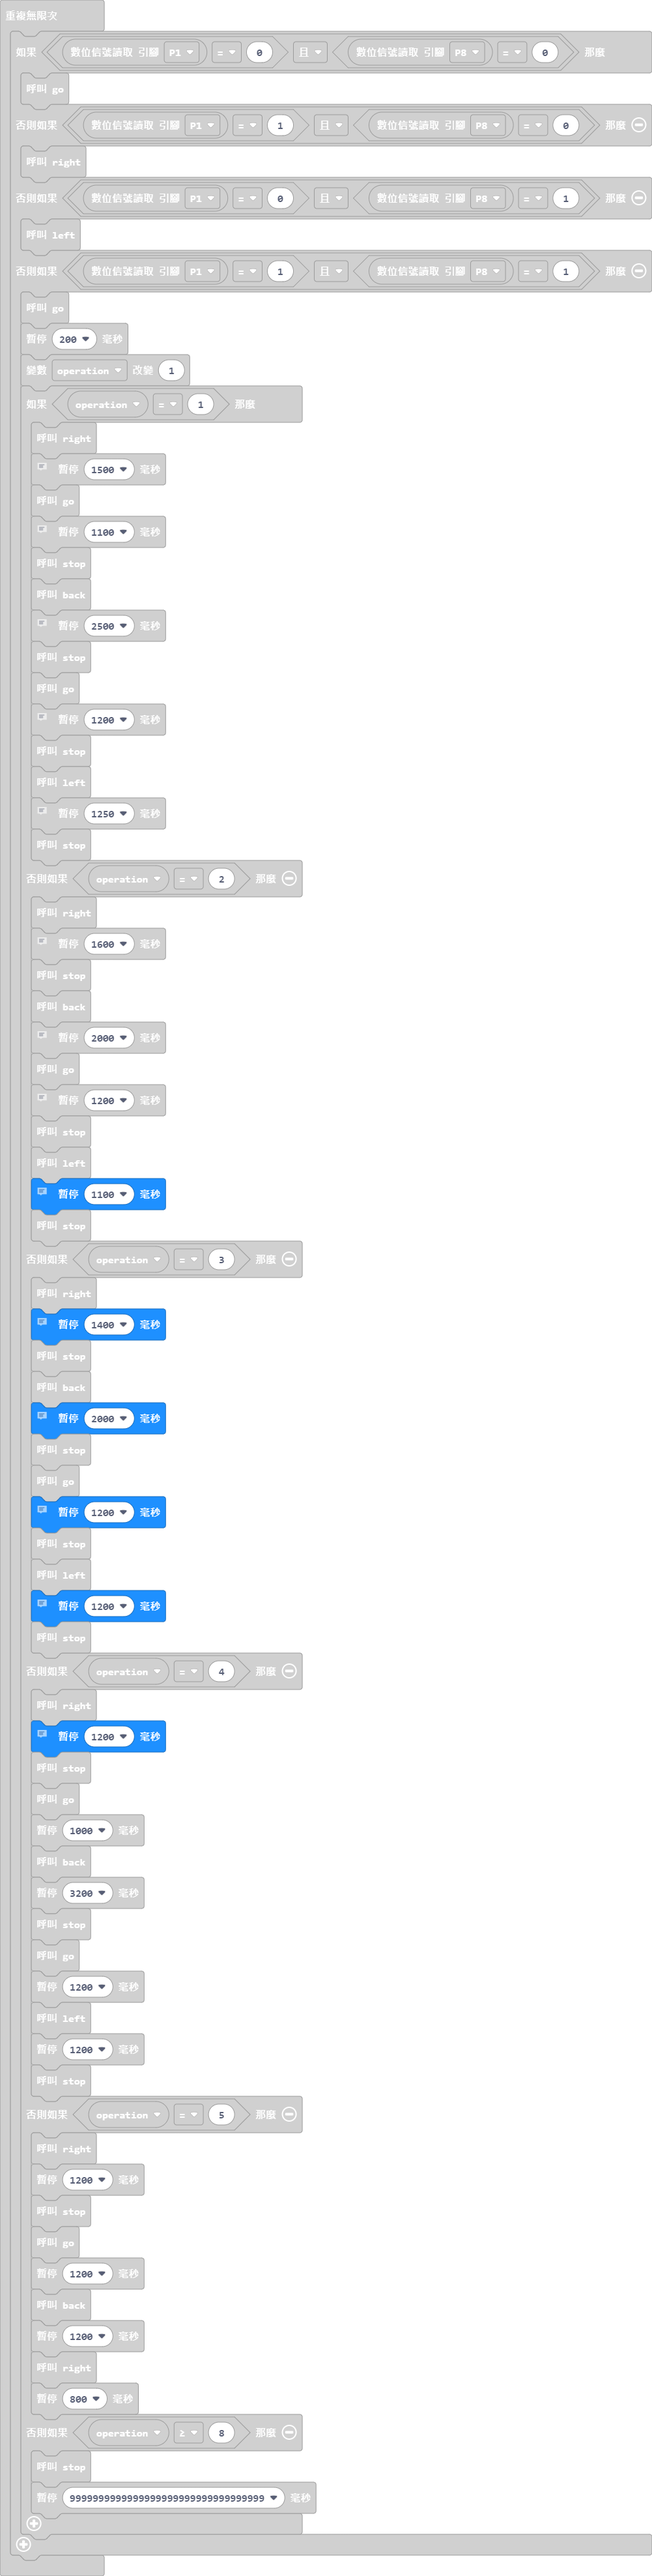
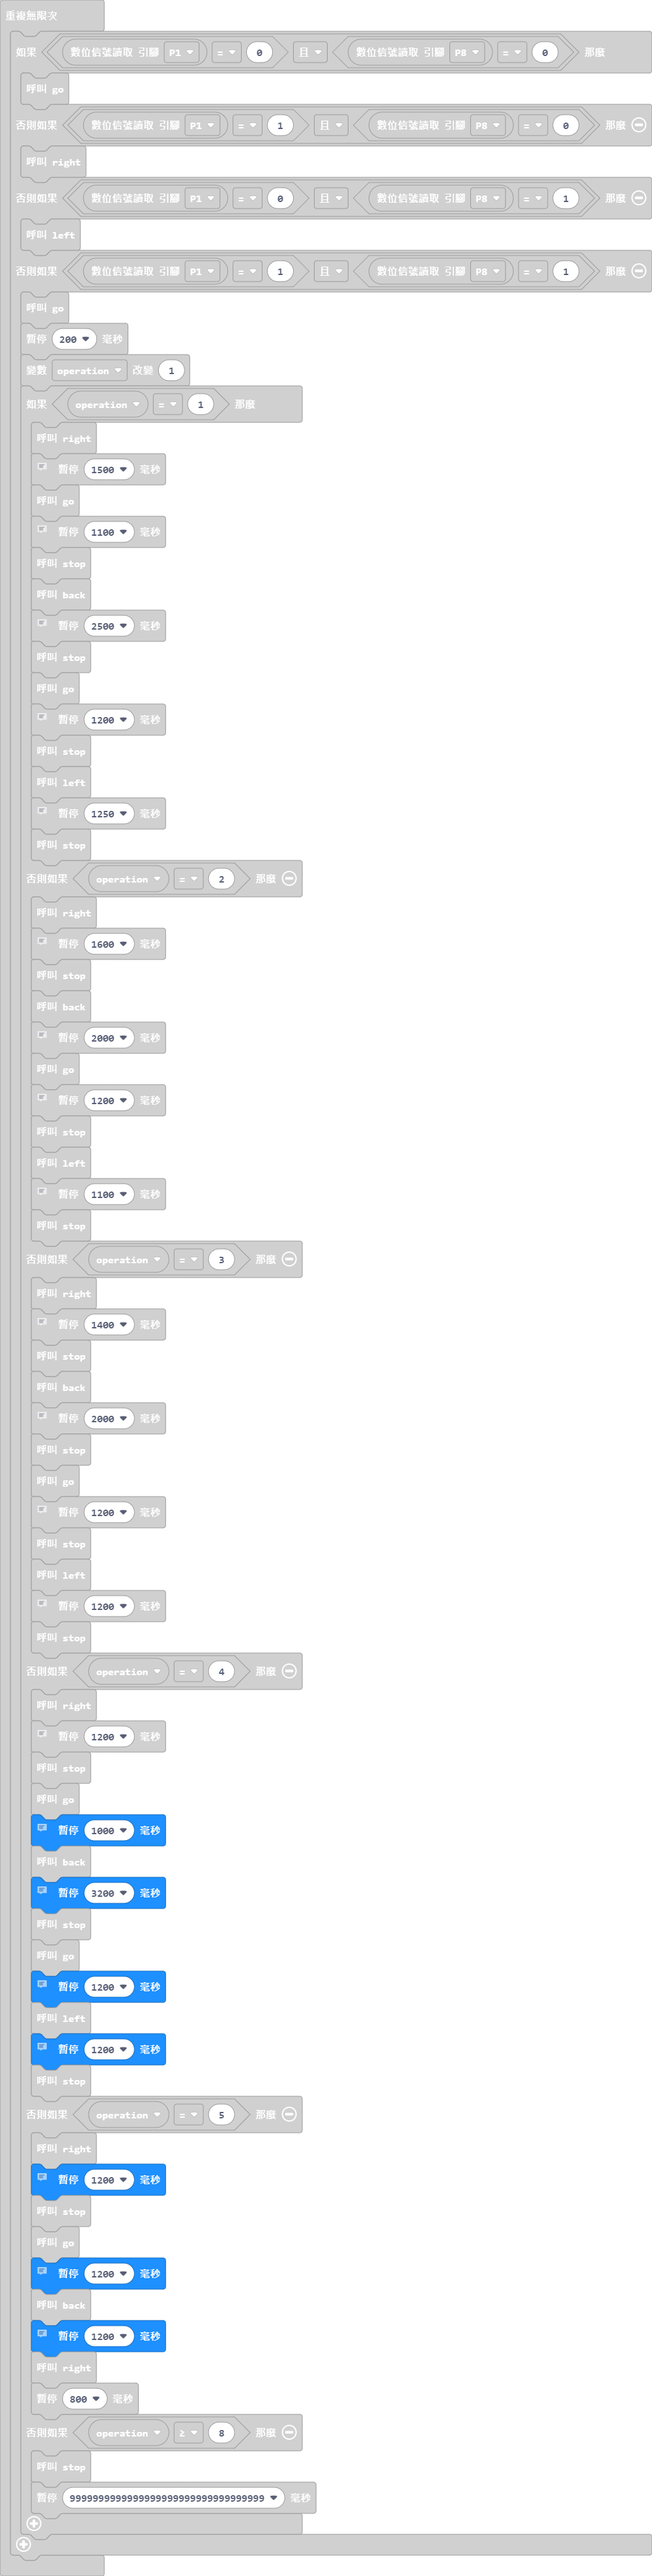
更新 main.blocks, main.ts

Changed region(s): [[0.031, 0.4357, 0.2478, 0.8092], [0.031, 0.8403, 0.2787, 0.9337], [0.1858, 0.4357, 0.2478, 0.4669]]

diff --git a/main.ts b/main.ts
@@ -153,22 +153,29 @@ basic.forever(function () {
             basic.pause(1200)
             stop()
             go()
+            // 從第四路口推進B區
             basic.pause(1000)
             back()
+            // 後退推進G區
             basic.pause(3200)
             stop()
             go()
+            // 離開G區前進到第四路口
             basic.pause(1200)
             left()
+            // 第四路口朝向正前方
             basic.pause(1200)
             stop()
         } else if (operation == 5) {
             right()
+            // 從第五路口右轉朝向E區
             basic.pause(1200)
             stop()
             go()
+            // 前進推進E區
             basic.pause(1200)
             back()
+            // 從E區後退推進ParkingPlace
             basic.pause(1200)
             right()
             basic.pause(800)
